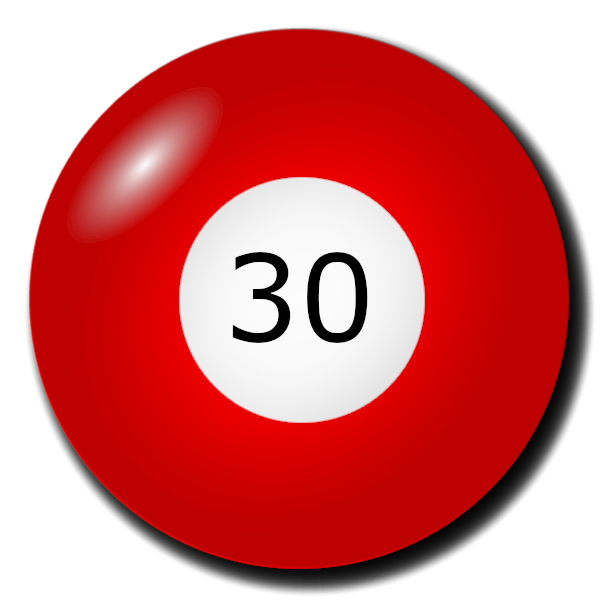
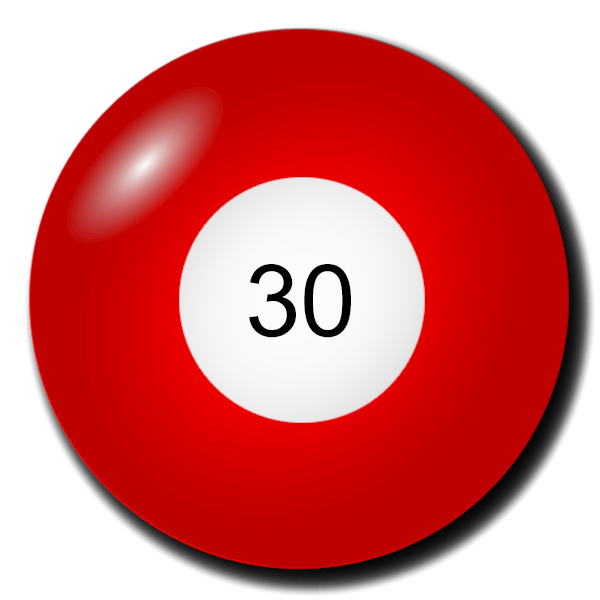
golyok keszitese, fooldal es leghosszabb szamok sorozata oldal frissitese a golyoszamok megjelenitesehez

Changed region(s): [[0.39, 0.42, 0.63, 0.57]]

diff --git a/leghosszabb_sorozatok_szamsorokban.html b/leghosszabb_sorozatok_szamsorokban.html
@@ -27,29 +27,29 @@
     <aside>
         <div id="text">
             <h1 id="text1alt">A 3 leghosszabb sorozatot tartalmazó számsor</h1> <br>
-            <h1 class="text2">4 egymást követő szám</h1>
+            <h1 class="text2">3 egymást követő szám</h1>
             <div class="golyok">
-                <img src="./Kepek/golyo.png" width="10%">
-                <img src="./Kepek/narancsgolyo.png" width="10%">
-                <img src="./Kepek/zoldgolyo.png" width="10%">
-                <img src="./Kepek/kekgolyo.png" width="10%">
-                <img src="./Kepek/lilagolyo.png" width="10%">
+                <img src="./Kepek/golyo38.png" width="10%">
+                <img src="./Kepek/narancsgolyo39.png" width="10%">
+                <img src="./Kepek/zoldgolyo40.png" width="10%">
+                <img src="./Kepek/kekgolyo73.png" width="10%">
+                <img src="./Kepek/lilagolyo78.png" width="10%">
             </div>
             <h1 class="text2">3 egymást követő szám</h1>
             <div class="golyok">
-                <img src="./Kepek/golyo.png" width="10%">
-                <img src="./Kepek/narancsgolyo.png" width="10%">
-                <img src="./Kepek/zoldgolyo.png" width="10%">
-                <img src="./Kepek/kekgolyo.png" width="10%">
-                <img src="./Kepek/lilagolyo.png" width="10%">
+                <img src="./Kepek/golyo24.png" width="10%">
+                <img src="./Kepek/narancsgolyo75.png" width="10%">
+                <img src="./Kepek/zoldgolyo83.png" width="10%">
+                <img src="./Kepek/kekgolyo84.png" width="10%">
+                <img src="./Kepek/lilagolyo85.png" width="10%">
             </div>
             <h1 class="text2">3 egymást követő szám</h1>
             <div class="golyok">
-                <img src="./Kepek/golyo.png" width="10%">
-                <img src="./Kepek/narancsgolyo.png" width="10%">
-                <img src="./Kepek/zoldgolyo.png" width="10%">
-                <img src="./Kepek/kekgolyo.png" width="10%">
-                <img src="./Kepek/lilagolyo.png" width="10%">
+                <img src="./Kepek/golyo3.png" width="10%">
+                <img src="./Kepek/narancsgolyo53.png" width="10%">
+                <img src="./Kepek/zoldgolyo54.png" width="10%">
+                <img src="./Kepek/kekgolyo55.png" width="10%">
+                <img src="./Kepek/lilagolyo57.png" width="10%">
             </div>
         </div>
     </aside>

diff --git a/index.html b/index.html
@@ -29,19 +29,19 @@
             <h1 class="text1">Korábbi sorsolások</h1> <br>
             <h1 class="text2">Az előző heti nyerőszámok</h1>
             <div class="golyok">
-                <img src="./Kepek/golyo.png" width="10%">
-                <img src="./Kepek/narancsgolyo.png" width="10%">
-                <img src="./Kepek/zoldgolyo.png" width="10%">
-                <img src="./Kepek/kekgolyo.png" width="10%">
-                <img src="./Kepek/lilagolyo.png" width="10%">
+                <img src="./Kepek/golyo30.png" width="10%">
+                <img src="./Kepek/narancsgolyo54.png" width="10%">
+                <img src="./Kepek/zoldgolyo55.png" width="10%">
+                <img src="./Kepek/kekgolyo81.png" width="10%">
+                <img src="./Kepek/lilagolyo89.png" width="10%">
             </div>
             <h1 class="text2">A múlt heti nyerőszámok</h1>
             <div class="golyok">
-                <img src="./Kepek/golyo.png" width="10%">
-                <img src="./Kepek/narancsgolyo.png" width="10%">
-                <img src="./Kepek/zoldgolyo.png" width="10%">
-                <img src="./Kepek/kekgolyo.png" width="10%">
-                <img src="./Kepek/lilagolyo.png" width="10%">
+                <img src="./Kepek/golyo30.png" width="10%">
+                <img src="./Kepek/narancsgolyo57.png" width="10%">
+                <img src="./Kepek/zoldgolyo58.png" width="10%">
+                <img src="./Kepek/kekgolyo61.png" width="10%">
+                <img src="./Kepek/lilagolyo86.png" width="10%">
             </div>
         </div>
     </aside>
